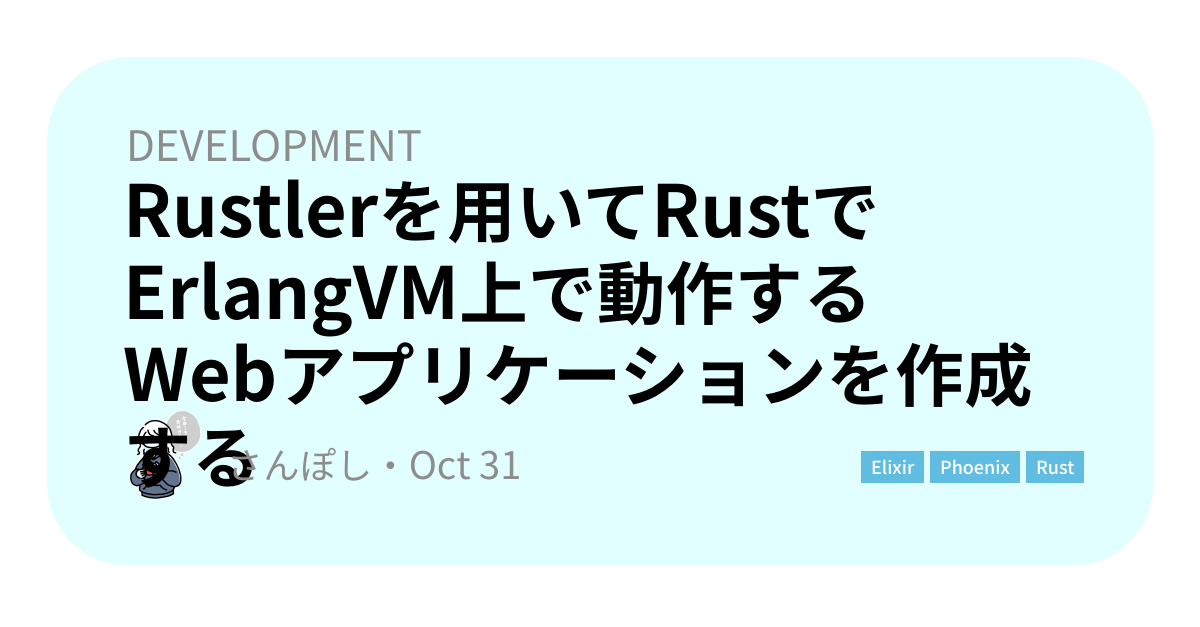
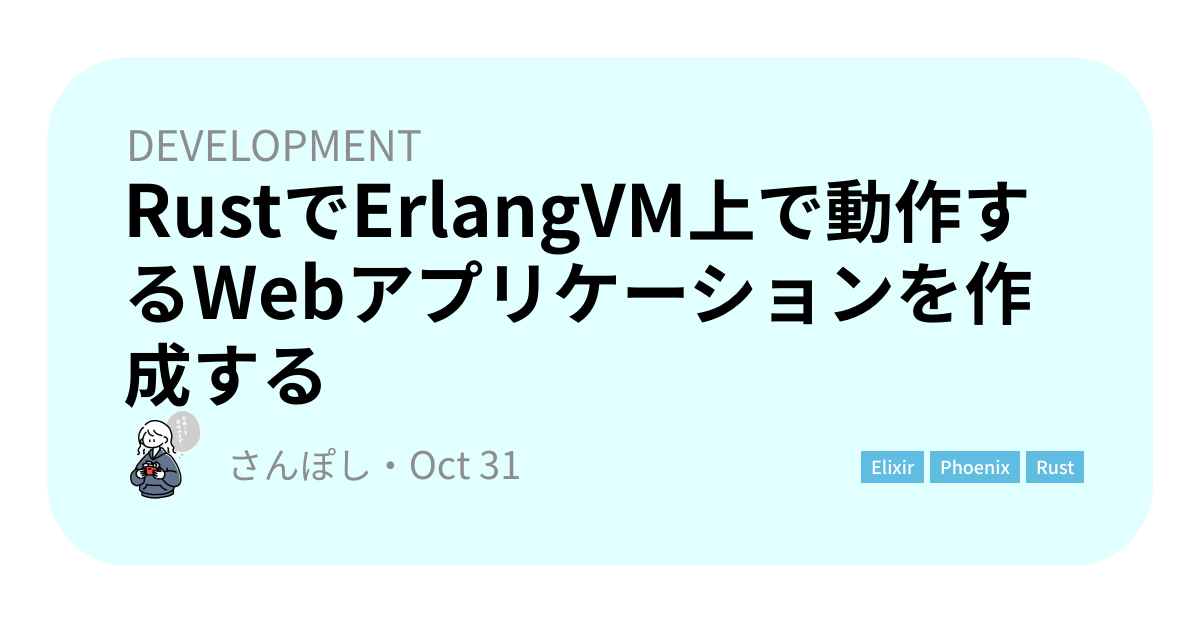
fix: publish

Changed region(s): [[0.0925, 0.2727, 0.8633, 0.7879]]

diff --git a/content/posts/rust-to-elixir-phx.md b/content/posts/rust-to-elixir-phx.md
@@ -1,7 +1,7 @@
 ---
-title: "RustでErlangVM上で動作するWebアプリケーションを作成する"
+title: "RustでErlangVM上で動作するWebアプリケーションを開発する"
 date: 2020-10-31T21:11:44+09:00
-draft: true
+draft: false
 author:
  - "さんぽし"
 tags:
